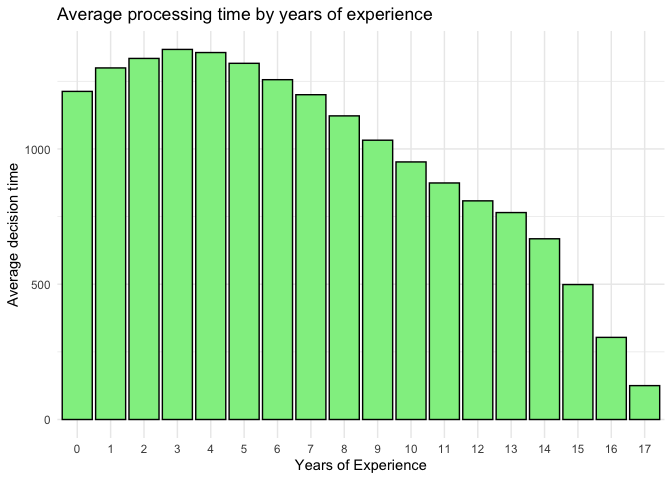
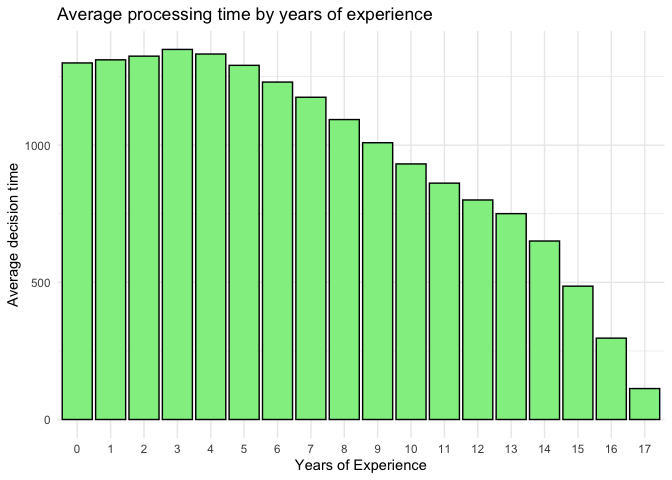
updated

diff --git a/Final-Project.md b/Final-Project.md
@@ -367,7 +367,7 @@ summary(model_avg_wt)
 ``` r
 yoe_df <- length_df %>%
   drop_na(earliest_date) %>%
-  mutate(yoe = year(filing_date)-year(earliest_date))
+  mutate(yoe = floor(interval(earliest_date, filing_date, ) / dyears(1)))
 
 yoe_df %>%
   group_by(yoe) %>%
@@ -412,43 +412,43 @@ summary(model_yoe_af)
     ## 
     ## Residuals:
     ##     Min      1Q  Median      3Q     Max 
-    ## -1584.4  -307.3   -21.0   247.7  4380.0 
+    ## -1561.1  -304.3   -21.1   249.3  4405.4 
     ## 
     ## Coefficients:
     ##                              Estimate Std. Error t value Pr(>|t|)    
-    ## (Intercept)                  1658.344      8.444 196.385  < 2e-16 ***
-    ## as.factor(tc)1700            -135.796      5.129 -26.477  < 2e-16 ***
-    ## as.factor(tc)2100              19.007      5.513   3.448 0.000566 ***
-    ## as.factor(tc)2400             127.806      5.747  22.239  < 2e-16 ***
-    ## as.factor(gender)male         -26.522      4.062  -6.530 6.63e-11 ***
-    ## as.factor(race)black          -17.554     10.309  -1.703 0.088623 .  
-    ## as.factor(race)Hispanic       -59.115     10.224  -5.782 7.41e-09 ***
-    ## as.factor(race)other          241.599     69.546   3.474 0.000513 ***
-    ## as.factor(race)white          -23.250      4.397  -5.287 1.25e-07 ***
-    ## as.factor(disposal_type)ISS   216.643      3.673  58.986  < 2e-16 ***
-    ## as.factor(yoe)1              -168.129      8.776 -19.158  < 2e-16 ***
-    ## as.factor(yoe)2              -228.488      8.765 -26.068  < 2e-16 ***
-    ## as.factor(yoe)3              -276.826      8.855 -31.263  < 2e-16 ***
-    ## as.factor(yoe)4              -333.945      8.967 -37.240  < 2e-16 ***
-    ## as.factor(yoe)5              -408.016      9.104 -44.819  < 2e-16 ***
-    ## as.factor(yoe)6              -476.806      9.251 -51.544  < 2e-16 ***
-    ## as.factor(yoe)7              -545.030      9.395 -58.013  < 2e-16 ***
-    ## as.factor(yoe)8              -635.691      9.541 -66.626  < 2e-16 ***
-    ## as.factor(yoe)9              -727.608      9.739 -74.710  < 2e-16 ***
-    ## as.factor(yoe)10             -825.008     10.026 -82.289  < 2e-16 ***
-    ## as.factor(yoe)11             -915.887     10.385 -88.190  < 2e-16 ***
-    ## as.factor(yoe)12             -984.030     10.971 -89.695  < 2e-16 ***
-    ## as.factor(yoe)13            -1021.815     11.691 -87.400  < 2e-16 ***
-    ## as.factor(yoe)14            -1107.533     12.633 -87.673  < 2e-16 ***
-    ## as.factor(yoe)15            -1269.512     14.369 -88.349  < 2e-16 ***
-    ## as.factor(yoe)16            -1464.788     19.577 -74.820  < 2e-16 ***
-    ## as.factor(yoe)17            -1698.160    183.778  -9.240  < 2e-16 ***
+    ## (Intercept)                  1636.491      8.115 201.664  < 2e-16 ***
+    ## as.factor(tc)1700            -134.207      5.070 -26.471  < 2e-16 ***
+    ## as.factor(tc)2100              16.705      5.464   3.057  0.00224 ** 
+    ## as.factor(tc)2400             119.079      5.694  20.915  < 2e-16 ***
+    ## as.factor(gender)male         -28.613      4.027  -7.105 1.22e-12 ***
+    ## as.factor(race)black          -15.420     10.225  -1.508  0.13155    
+    ## as.factor(race)Hispanic       -55.167     10.180  -5.419 6.00e-08 ***
+    ## as.factor(race)other          270.898     68.906   3.931 8.45e-05 ***
+    ## as.factor(race)white          -21.582      4.363  -4.946 7.58e-07 ***
+    ## as.factor(disposal_type)ISS   213.079      3.642  58.507  < 2e-16 ***
+    ## as.factor(yoe)1              -184.084      8.347 -22.053  < 2e-16 ***
+    ## as.factor(yoe)2              -238.848      8.416 -28.380  < 2e-16 ***
+    ## as.factor(yoe)3              -287.523      8.527 -33.718  < 2e-16 ***
+    ## as.factor(yoe)4              -350.058      8.642 -40.505  < 2e-16 ***
+    ## as.factor(yoe)5              -413.822      8.795 -47.052  < 2e-16 ***
+    ## as.factor(yoe)6              -482.328      8.947 -53.911  < 2e-16 ***
+    ## as.factor(yoe)7              -553.394      9.083 -60.923  < 2e-16 ***
+    ## as.factor(yoe)8              -646.786      9.255 -69.889  < 2e-16 ***
+    ## as.factor(yoe)9              -733.248      9.502 -77.168  < 2e-16 ***
+    ## as.factor(yoe)10             -826.663      9.825 -84.140  < 2e-16 ***
+    ## as.factor(yoe)11             -911.939     10.290 -88.625  < 2e-16 ***
+    ## as.factor(yoe)12             -969.157     10.912 -88.813  < 2e-16 ***
+    ## as.factor(yoe)13            -1010.576     11.681 -86.513  < 2e-16 ***
+    ## as.factor(yoe)14            -1109.840     12.724 -87.222  < 2e-16 ***
+    ## as.factor(yoe)15            -1258.234     14.897 -84.463  < 2e-16 ***
+    ## as.factor(yoe)16            -1443.482     21.416 -67.402  < 2e-16 ***
+    ## as.factor(yoe)17            -1644.337    228.192  -7.206 5.82e-13 ***
     ## ---
     ## Signif. codes:  0 '***' 0.001 '**' 0.01 '*' 0.05 '.' 0.1 ' ' 1
     ## 
-    ## Residual standard error: 519.4 on 80212 degrees of freedom
-    ## Multiple R-squared:  0.3292, Adjusted R-squared:  0.329 
-    ## F-statistic:  1514 on 26 and 80212 DF,  p-value: < 2.2e-16
+    ## Residual standard error: 510 on 78637 degrees of freedom
+    ## Multiple R-squared:  0.3259, Adjusted R-squared:  0.3257 
+    ## F-statistic:  1462 on 26 and 78637 DF,  p-value: < 2.2e-16
 
 ``` r
 summary(model_yoe)
@@ -461,27 +461,27 @@ summary(model_yoe)
     ## 
     ## Residuals:
     ##     Min      1Q  Median      3Q     Max 
-    ## -1568.9  -308.1   -22.2   252.1  4415.4 
+    ## -1529.5  -304.9   -21.1   250.5  4454.1 
     ## 
     ## Coefficients:
     ##                              Estimate Std. Error  t value Pr(>|t|)    
-    ## (Intercept)                 1624.4228     6.5866  246.625  < 2e-16 ***
-    ## as.factor(tc)1700           -135.5656     5.1386  -26.382  < 2e-16 ***
-    ## as.factor(tc)2100             19.3059     5.5240    3.495 0.000475 ***
-    ## as.factor(tc)2400            129.8567     5.7556   22.562  < 2e-16 ***
-    ## as.factor(gender)male        -26.2794     4.0702   -6.457 1.08e-10 ***
-    ## as.factor(race)black         -17.4412    10.3311   -1.688 0.091372 .  
-    ## as.factor(race)Hispanic      -58.9434    10.2456   -5.753 8.80e-09 ***
-    ## as.factor(race)other         240.6325    69.6927    3.453 0.000555 ***
-    ## as.factor(race)white         -23.4009     4.4065   -5.310 1.10e-07 ***
-    ## as.factor(disposal_type)ISS  215.2188     3.6774   58.525  < 2e-16 ***
-    ## yoe                          -78.3010     0.4312 -181.605  < 2e-16 ***
+    ## (Intercept)                 1588.9916     6.4950  244.647  < 2e-16 ***
+    ## as.factor(tc)1700           -134.4209     5.0801  -26.460  < 2e-16 ***
+    ## as.factor(tc)2100             17.2722     5.4758    3.154  0.00161 ** 
+    ## as.factor(tc)2400            120.9493     5.7021   21.212  < 2e-16 ***
+    ## as.factor(gender)male        -28.4814     4.0359   -7.057 1.72e-12 ***
+    ## as.factor(race)black         -15.3010    10.2476   -1.493  0.13541    
+    ## as.factor(race)Hispanic      -55.0975    10.2018   -5.401 6.65e-08 ***
+    ## as.factor(race)other         268.9962    69.0561    3.895 9.81e-05 ***
+    ## as.factor(race)white         -21.5611     4.3727   -4.931 8.20e-07 ***
+    ## as.factor(disposal_type)ISS  211.8978     3.6469   58.104  < 2e-16 ***
+    ## yoe                          -76.8524     0.4314 -178.158  < 2e-16 ***
     ## ---
     ## Signif. codes:  0 '***' 0.001 '**' 0.01 '*' 0.05 '.' 0.1 ' ' 1
     ## 
-    ## Residual standard error: 520.6 on 80228 degrees of freedom
-    ## Multiple R-squared:  0.3262, Adjusted R-squared:  0.3261 
-    ## F-statistic:  3884 on 10 and 80228 DF,  p-value: < 2.2e-16
+    ## Residual standard error: 511.2 on 78653 degrees of freedom
+    ## Multiple R-squared:  0.3228, Adjusted R-squared:  0.3228 
+    ## F-statistic:  3750 on 10 and 78653 DF,  p-value: < 2.2e-16
 
 ``` r
 tidy(model_yoe_af)
@@ -490,14 +490,14 @@ tidy(model_yoe_af)
     ## # A tibble: 27 × 5
     ##    term                        estimate std.error statistic   p.value
     ##    <chr>                          <dbl>     <dbl>     <dbl>     <dbl>
-    ##  1 (Intercept)                   1658.       8.44    196.   0        
-    ##  2 as.factor(tc)1700             -136.       5.13    -26.5  8.30e-154
-    ##  3 as.factor(tc)2100               19.0      5.51      3.45 5.66e-  4
-    ##  4 as.factor(tc)2400              128.       5.75     22.2  3.07e-109
-    ##  5 as.factor(gender)male          -26.5      4.06     -6.53 6.63e- 11
-    ##  6 as.factor(race)black           -17.6     10.3      -1.70 8.86e-  2
-    ##  7 as.factor(race)Hispanic        -59.1     10.2      -5.78 7.41e-  9
-    ##  8 as.factor(race)other           242.      69.5       3.47 5.13e-  4
-    ##  9 as.factor(race)white           -23.2      4.40     -5.29 1.25e-  7
-    ## 10 as.factor(disposal_type)ISS    217.       3.67     59.0  0        
+    ##  1 (Intercept)                   1636.       8.11    202.   0        
+    ##  2 as.factor(tc)1700             -134.       5.07    -26.5  9.96e-154
+    ##  3 as.factor(tc)2100               16.7      5.46      3.06 2.24e-  3
+    ##  4 as.factor(tc)2400              119.       5.69     20.9  7.20e- 97
+    ##  5 as.factor(gender)male          -28.6      4.03     -7.10 1.22e- 12
+    ##  6 as.factor(race)black           -15.4     10.2      -1.51 1.32e-  1
+    ##  7 as.factor(race)Hispanic        -55.2     10.2      -5.42 6.00e-  8
+    ##  8 as.factor(race)other           271.      68.9       3.93 8.45e-  5
+    ##  9 as.factor(race)white           -21.6      4.36     -4.95 7.58e-  7
+    ## 10 as.factor(disposal_type)ISS    213.       3.64     58.5  0        
     ## # ℹ 17 more rows
